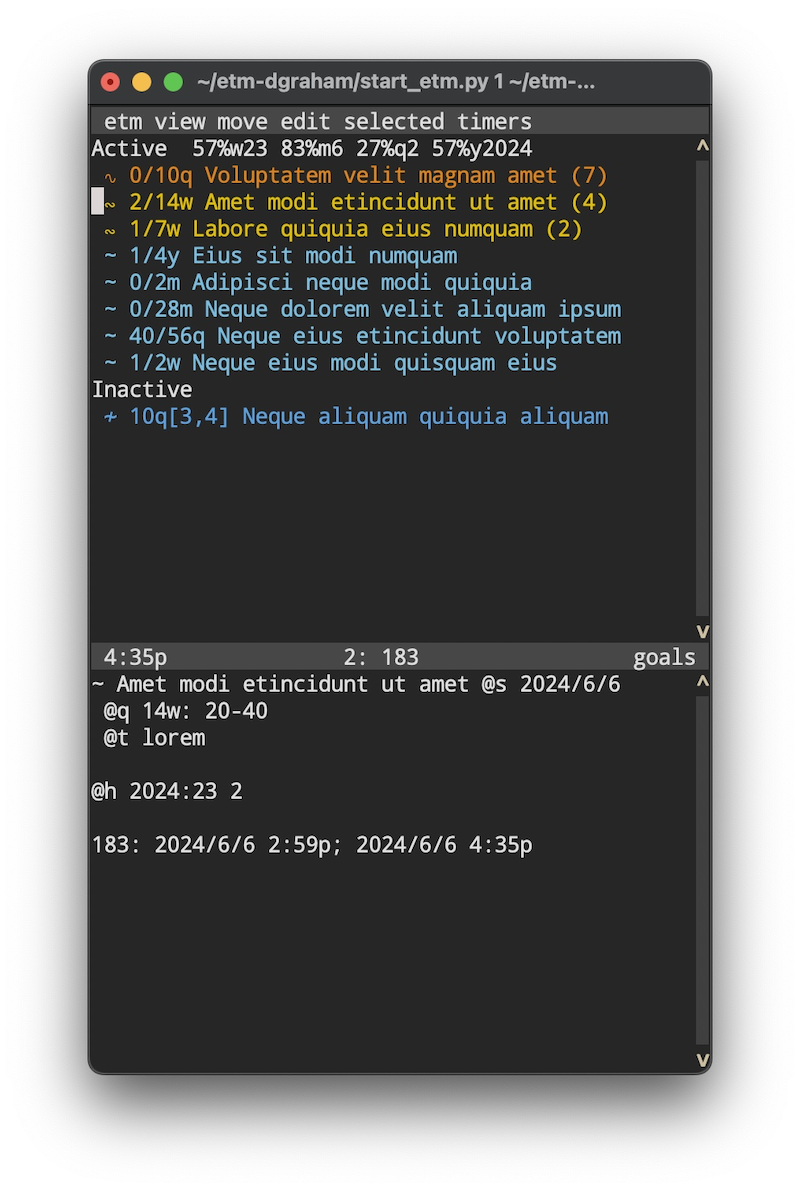
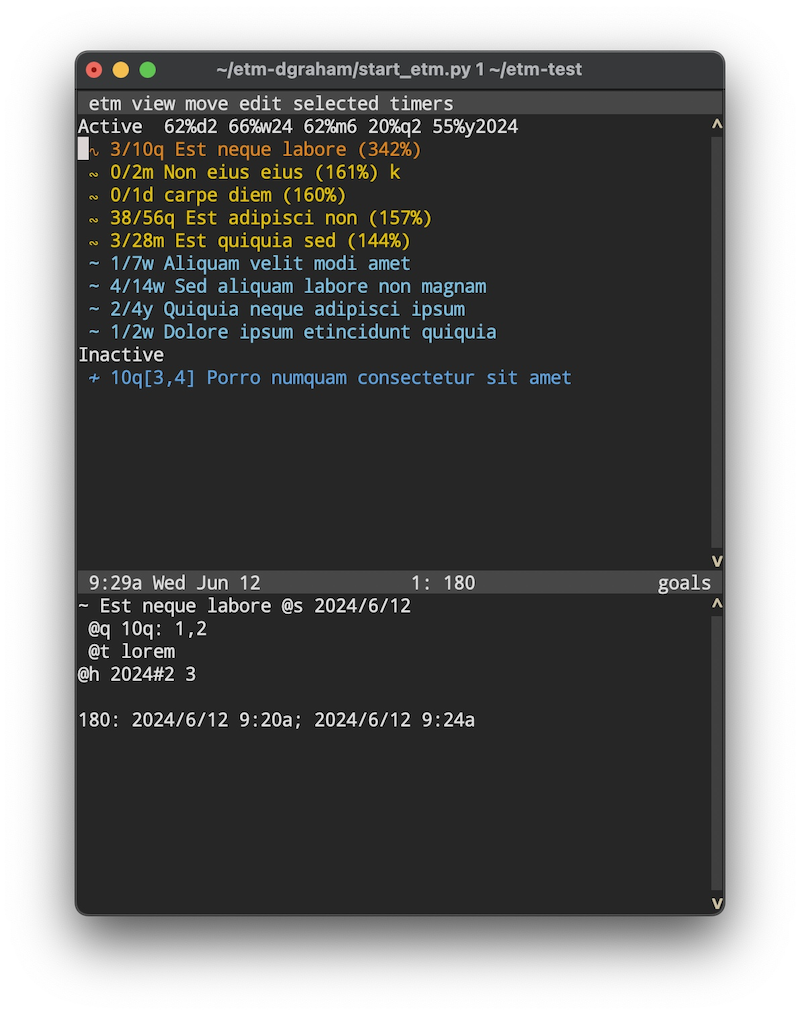
Update goals hourly.

Changed region(s): [[0.0625, 0.0305, 0.9375, 0.9163]]

diff --git a/etm/model.py b/etm/model.py
@@ -1168,7 +1168,7 @@ item_hsh:    {self.item_hsh}
         quota = q[0]
         period = q[1] if len(q) > 1 else 'w'
         now = datetime.now().astimezone()
-        this_period, day, days, fraction_passed = get_fraction_of_period_passed(period)
+        this_period, day, days, fraction_passed = get_period_data(period)
 
         # this_week = tuple([int(x) for x in now.strftime("%Y,%W").split(',')])
         self.item_hsh.setdefault('h', {})
@@ -3681,15 +3681,17 @@ class DataView(object):
         if self.active_view != 'query':
             self.use_items()
 
+    def refresh_goals(self):
+        if 'goals' in self.view_cache:
+            logger.debug('refreshing goals')
+            del self.view_cache['goals']
+        self.show_active_view()
+
     def show_active_view(self):
-        # logger.debug(f'{self.active_view = }; {self.cached_views = }; {self.active_view in self.cached_views = }')
+        logger.debug(f"in cached_views: {self.active_view in self.cached_views}; in view_cache: {self.active_view in self.view_cache}")
 
-        if self.active_view not in self.cached_views:
-            cached_view = self.create_view()
-            return cached_view
-
-        # logger.debug('in cached views')
         if self.active_view in self.view_cache:
+            # logger.debug(f"self.view_cache[{self.active_view}] = {self.view_cache[self.active_view]}")
             timestamp, cached_view, row2id = self.view_cache[self.active_view]
             if timestamp >= self.last_modified:
                 timer_use_cache = TimeIt('use_cache')
@@ -3698,7 +3700,8 @@ class DataView(object):
                 timer_use_cache.stop()
                 return cached_view
 
-        # logger.debug(f"creating cache for {self.active_view}")
+
+        logger.debug(f"creating cache for {self.active_view}")
         timer_make_cache = TimeIt('make cache')
         cached_view = self.create_view()
         row2id = self.row2id
@@ -8259,7 +8262,7 @@ def show_journal(
     tree, row2id = rdict.as_tree(rdict)
     return tree, row2id
 
-def get_fraction_of_period_passed(period:str = 'w'):
+def get_period_data(period:str = 'w'):
     # if isinstance(input_date, str):
     #     input_date = datetime.strptime(input_date, '%Y-%m-%d')
     # elif isinstance(input_date, datetime):
@@ -8267,32 +8270,34 @@ def get_fraction_of_period_passed(period:str = 'w'):
     # else:
     #     input_date = date_to_datetime(input_date)
 
-    today = datetime.now().astimezone().replace(
+    now = datetime.now().astimezone()
+    today = now.replace(
         hour=0, minute=0, second=0, microsecond=0, tzinfo=None
         )
+    day_fraction = min(now.hour, 23) / 24
 
     # Helper function to calculate fraction of the week passed
     def fraction_of_day_passed():
         this_period_tup = today.isocalendar()[:2] # yyyy, weeknum
         weekday = today.weekday()
         this_period = f"{this_period_tup[0]}:{this_period_tup[1]:02}:{weekday}"
-        day = 0
+        day = day_fraction
         days = 1
-        return this_period, day, days, 0
+        return this_period, day, days, day / days
 
     def fraction_of_week_passed():
         this_period_tup = today.isocalendar()[:2] # yyyy, weeknum
         this_period = f"{this_period_tup[0]}:{this_period_tup[1]:02}"
-        day = today.weekday()
+        day = today.weekday() + day_fraction
         days = 7
         return this_period, day, days, day / days
 
     # Helper function to calculate fraction of the month passed
     def fraction_of_month_passed():
         this_period = f"{today.year}-{today.month:02}"
-        day = today.day - 1
+        day = today.day - 1 + day_fraction
         days = calendar.monthrange(today.year, today.month)[1] 
-        return this_period, day, days, day /days     
+        return this_period, day, days, day / days     
     
     # Helper function to calculate fraction of the quarter passed
     def fraction_of_quarter_passed():
@@ -8301,7 +8306,7 @@ def get_fraction_of_period_passed(period:str = 'w'):
         quarter_end_month = quarter_start_month + 2
         quarter_end_date = datetime(today.year, quarter_end_month, calendar.monthrange(today.year, quarter_end_month)[1]).astimezone().replace(tzinfo=None)
         this_period = f"{today.year}#{(today.month - 1) // 3 + 1}"
-        day = (today - quarter_start_date).days
+        day = (today - quarter_start_date).days + day_fraction
         days = (quarter_end_date - quarter_start_date).days + 1
         return this_period,  day, days, day / days 
 
@@ -8309,7 +8314,7 @@ def get_fraction_of_period_passed(period:str = 'w'):
     def fraction_of_year_passed():
         start_of_year = datetime(today.year, 1, 1).replace(tzinfo=None)
         end_of_year = datetime(today.year, 12, 31, 23, 59).replace(tzinfo=None)
-        day = (today - start_of_year).days
+        day = (today - start_of_year).days + day_fraction
         days = (end_of_year - start_of_year).days + 1
         return f"{today.year}", day, days, day / days 
 
@@ -8441,10 +8446,7 @@ def show_goals(
     }
 
     for period in this_period_hsh.keys():
-        this_period_hsh[period] = get_fraction_of_period_passed(period)
-        logger.debug(f"{this_period_hsh[period] = }")
-
-    logger.debug(f"{this_period_hsh = }")
+        this_period_hsh[period] = get_period_data(period)
 
     active_hsh = {k: re.split('[#:-]', v[0])[-1] for k, v in this_period_hsh.items()}
     for k in active_hsh.keys():
@@ -8453,15 +8455,13 @@ def show_goals(
         else:
             active_hsh[k] = int(active_hsh[k])
 
-    logger.debug(f"{active_hsh = }")
+    logger.debug(f"{active_hsh = }; {this_period_hsh = }")
 
     active_periods = ' '.join([f"{100-round(v[-1]*100)}%{k}{re.split('[#:-]', v[0])[-1].lstrip('0')}" 
-                  for k, v in this_period_hsh.items() if k != 'd'])
+            for k, v in this_period_hsh.items()])
     
     active_str = f"Active  {active_periods}"
     
-    logger.debug(f"{active_str = }")
-
     for item in db:
         itemtype = item.get('itemtype')
         if itemtype != '~':
@@ -8496,7 +8496,7 @@ def show_goals(
             itemtype = EtmChar.ENDED_CHAR
         else:
             this_period, day, days, fraction_used = this_period_hsh[period]
-            logger.debug(f"{begin_date = }; {this_period = }; {day = }; {days = }; {fraction_used = }")
+            # logger.debug(f"{begin_date = }; {this_period = }; {day = }; {days = }; {fraction_used = }")
             done = int(h.get(this_period, 0))
             needed = 0
             if quota < 0:
@@ -8508,7 +8508,8 @@ def show_goals(
                 goal = f"{done}/{abs(quota)}{period}"
                 itemtype = EtmChar.INACTIVE_CHAR
             else:
-                needed = max(int(fraction_used * quota - min(done, quota)), 0)
+                needed = max(math.ceil(fraction_used * quota - min(done, quota)), 0)
+                logger.debug(f"{fraction_used = }; {quota = }; {done = }; {needed = }")
                 if periods:
                     if len(periods) > 2 and [x for x in range(periods[0], periods[-1]+1)] == periods:
                         period_str = f"{periods[0]}-{periods[-1]}"
@@ -8538,8 +8539,9 @@ def show_goals(
             slow_level = 4/3 
             logger.debug(f"{lag = }")
             goal = f"{done}/{abs(quota)}{period}" 
-            # rep = f" ({lag}, {needed})"
-            rep = f" ({needed})"
+            # rep = f" ({needed} {int(100*lag)}%)"
+            rep = f" ({int(100*lag)}%)"
+            # rep = f" {int(100*lag)}%"
             if lag >= late_level:
                 # behind
                 itemtype = EtmChar.LATE_CHAR

diff --git a/etm/view.py b/etm/view.py
@@ -724,6 +724,7 @@ def get_entry(title: str, text: str, default: str, event) -> any:
     entry_title_buffer.text = heading
     entry_display_area.text = wrap_text(text)
     entry_buffer.text = default
+    entry_buffer.cursor_position = len(default)  # Move cursor to end
     dataview.show_entry()
     entry_buffer_changed(event)
     # default_cursor_position_changed(event)
@@ -1621,9 +1622,11 @@ async def maybe_alerts(now):
         logger.error(f'unrecognized alert commands: {bad}')
 
 
+next_hour = 0
 # async def event_handler():
 def event_handler(e):
-    global current_datetime
+    global current_datetime, next_hour
+    
     now = datetime.now().astimezone()
     refresh_interval = settings.get(
         'refresh_interval', 6
@@ -1634,6 +1637,7 @@ def event_handler(e):
     updates_interval = settings.get('updates_interval', 0)
     minutes = now.minute
     seconds = now.second
+    this_hour = now.hour
 
     try:
         current_today = dataview.now.strftime('%Y%m%d')
@@ -1644,6 +1648,13 @@ def event_handler(e):
         if updates_interval and minutes % updates_interval == 0 and seconds == 0:
             loop = asyncio.get_event_loop()
             asyncio.ensure_future(updates_loop(loop))
+
+        if this_hour >= next_hour:
+            logger.debug(f"refreshing goals and resetting next_hour from {next_hour} to {this_hour + 1}")
+            next_hour = this_hour + 1
+            dataview.refresh_goals()
+            set_text(dataview.show_active_view())
+            get_app().invalidate()
 
         if today != current_today:
             loop = asyncio.get_event_loop()
@@ -2858,7 +2869,7 @@ def do_finish(*event):
             period = tups[1]
             periods = tups[2]
 
-        this_period = model.get_fraction_of_period_passed(period)[0]
+        this_period = model.get_period_data(period)[0]
         hist = hsh.get('h', {})
         done = hist.get(this_period, 0) if hist else 0
         done_str = f"{done} instance" if done == 1 else f"{done} instances"
